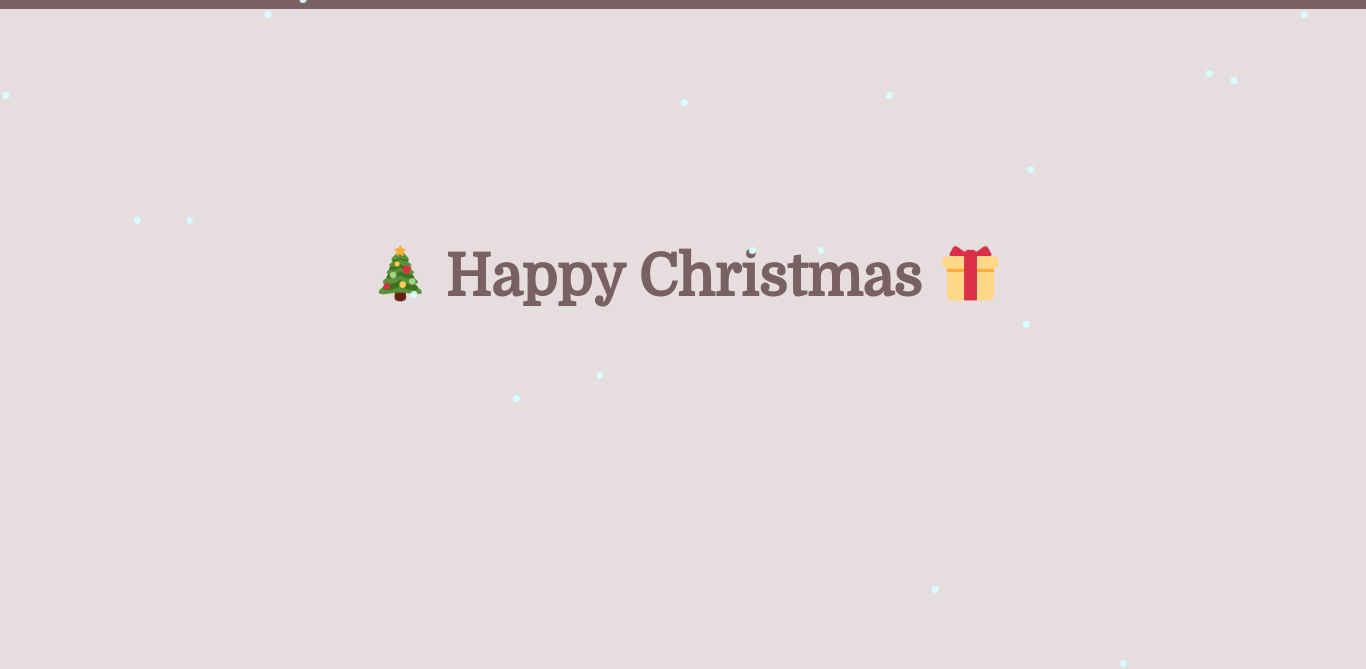
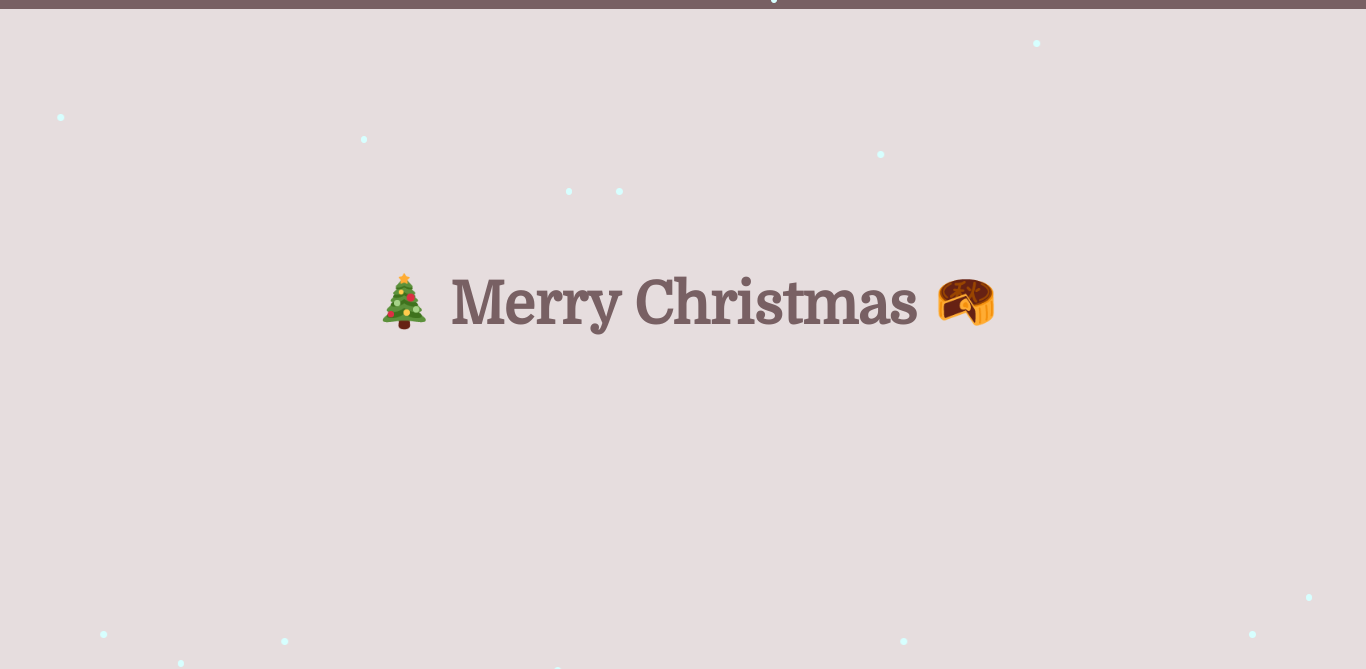
feat: Fix Grammar

Changed region(s): [[0.2767, 0.3587, 0.7379, 0.5082]]

diff --git a/index.html b/index.html
@@ -7,7 +7,7 @@
     <link rel="stylesheet" href="Public/CSS/style.css" />
     <title>Christmas Holidays Countdown</title>
 
-    <meta property="og:title" content="Happy Christmas">
+    <meta property="og:title" content="Merry Christmas">
     <meta property="og:image" content="/Public/Assets/screen.png">
     <meta property="og:image:width" content="1366">
     <meta property="og:image:height" content="669">
@@ -23,7 +23,7 @@
     <div id="snowflakes" aria-hidden="true"></div>
     <div id="linearColor"></div>
 
-    <h1>🎄 Christmas <u>Holidays</u> Countdown</h1>
+    <h1>🎄 Christmas <u>Holidays</u> <strong>0000</strong></h1>
     
     <div id="countdown">
       <div class="time">

diff --git a/Public/JS/countdown.js b/Public/JS/countdown.js
@@ -1,6 +1,7 @@
 let alternatives = ['days', 'hours', 'minutes', 'seconds']
 
 const showEverything = () => {
+    document.querySelector('h1').innerHTML = document.querySelector('h1').innerHTML.replace('0000', new Date().getUTCFullYear())
     document.querySelector('h1').style.visibility = 'visible'
     document.getElementById('countdown').style.display = 'flex'
     document.getElementById('loader').style.display = 'none'
